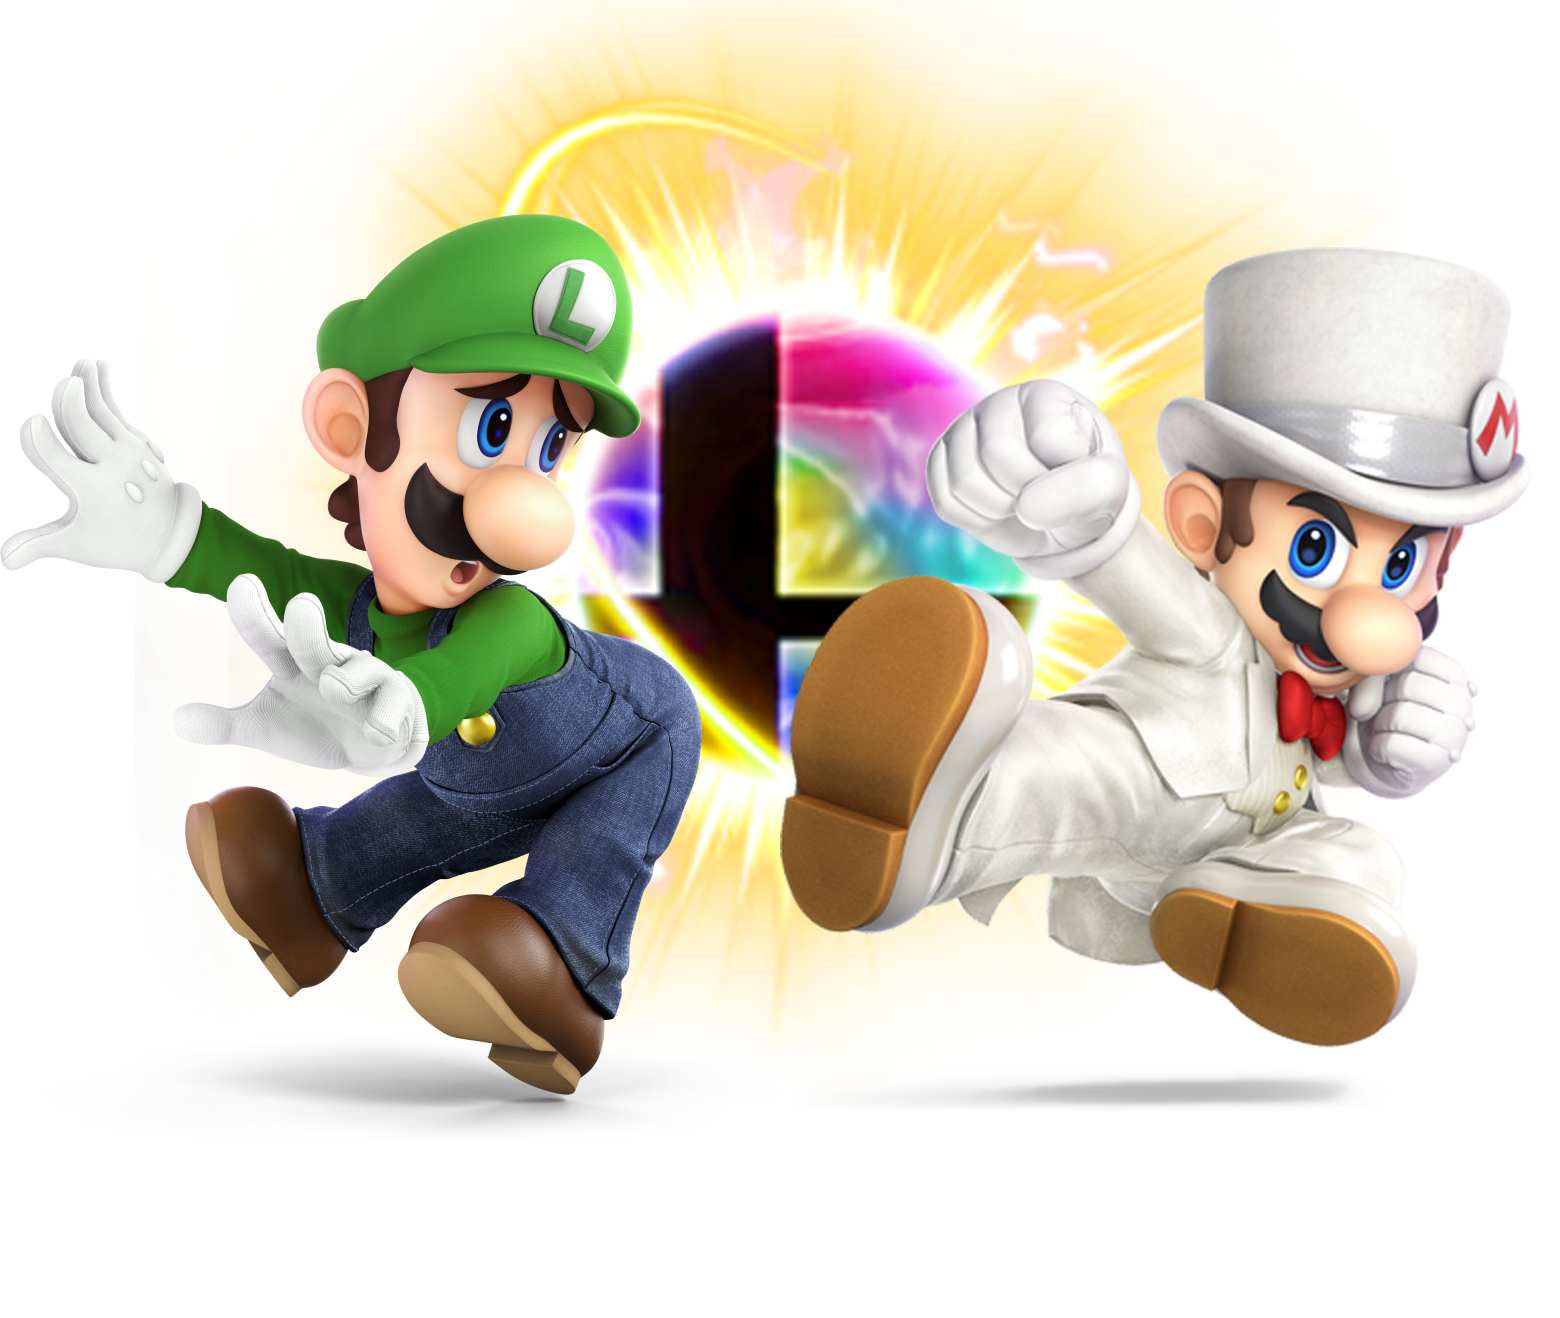
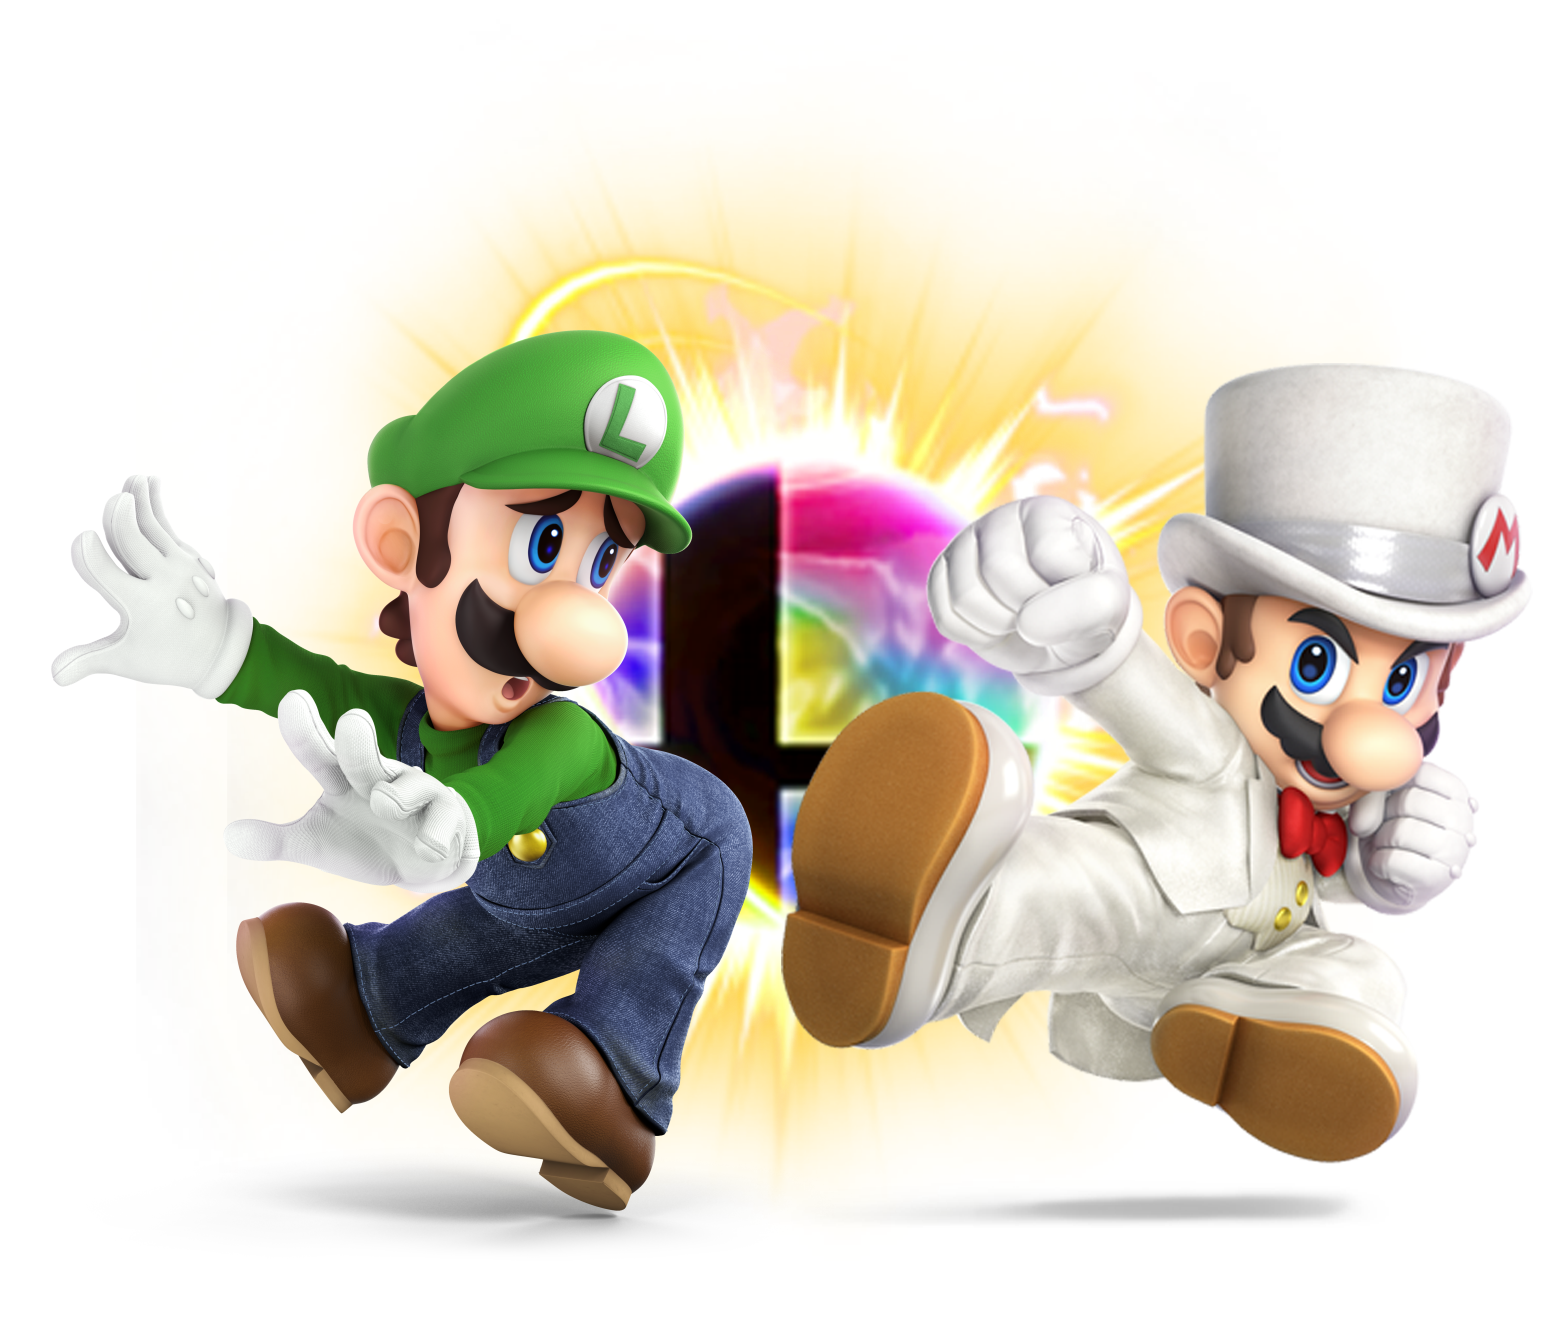
fixed transparancy on home page image -Ben

diff --git a/BeMyPlayer2/src/graphics/HomePageView.java b/BeMyPlayer2/src/graphics/HomePageView.java
@@ -52,6 +52,12 @@ public class HomePageView {
 		btnAccount.addActionListener(homeController);
 		homeController.getHomePageModel().setBtnProfile(btnAccount);
 		
+		JLabel lblLove = new JLabel("Find Love");
+		lblLove.setBounds(90, 220, 100, 50);
+		lblLove.setFont(Fonts.getFont((14f)));
+		lblLove.setForeground(Colors.Yellow);
+		homeController.getHomePanel().add(lblLove);
+		
 		JButton btnLove = new JButton("Find Love");
 		btnLove.setBounds(30,100,200,140);
 		btnLove.setActionCommand(homeController.FIND_LOVE);
@@ -63,6 +69,12 @@ public class HomePageView {
 		BufferedImage findLovepic = ResourceManager.loadImage("findlove.png");
 		//btnLove.setIcon(new ImageIcon(new ImageIcon(findLovepic).getImage().getScaledInstance(200, 140, Image.SCALE_SMOOTH)));
 		btnLove.setIcon(new ImageIcon(new ImageIcon(findLovepic).getImage().getScaledInstance(200, 140, Image.SCALE_SMOOTH)));
+		
+		JLabel lblFriend = new JLabel("Find Friends");
+		lblFriend.setBounds(330, 220, 100, 50);
+		lblFriend.setFont(Fonts.getFont(14f));
+		lblFriend.setForeground(Colors.Yellow);
+		homeController.getHomePanel().add(lblFriend);
 		
 		JButton btnFriends = new JButton("Find Friends");
 		btnFriends.setBounds(270,100,200,140);
